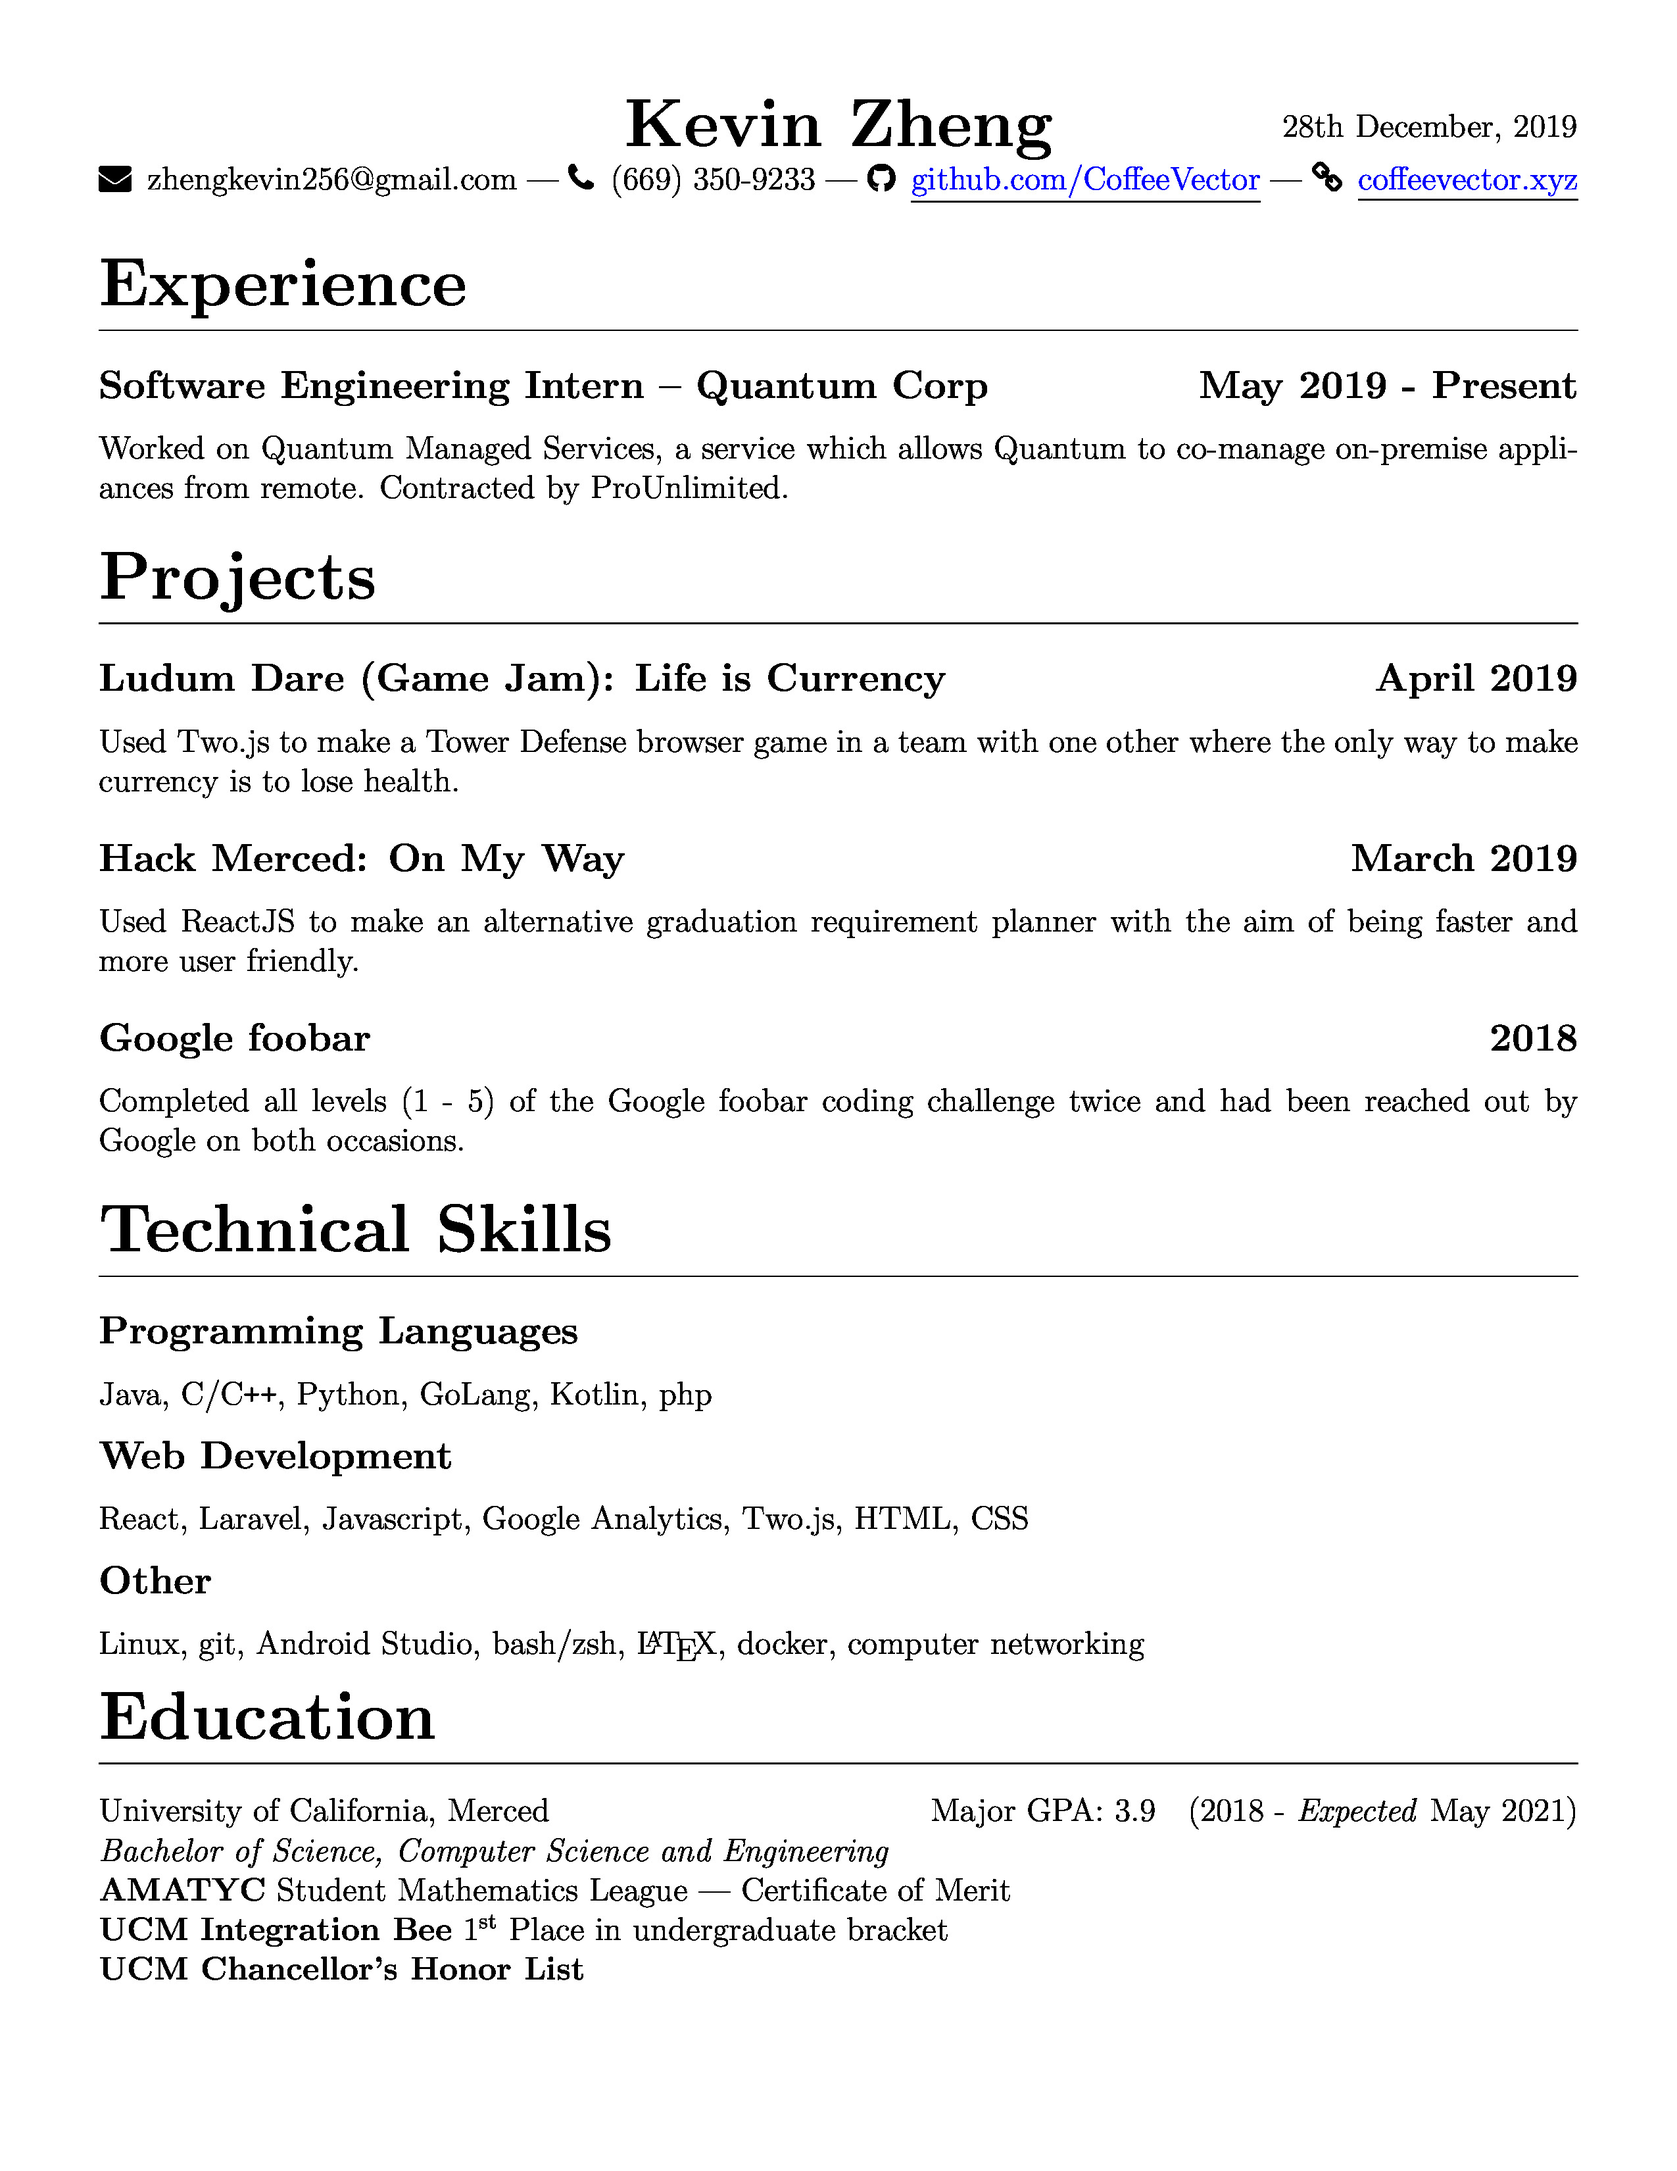
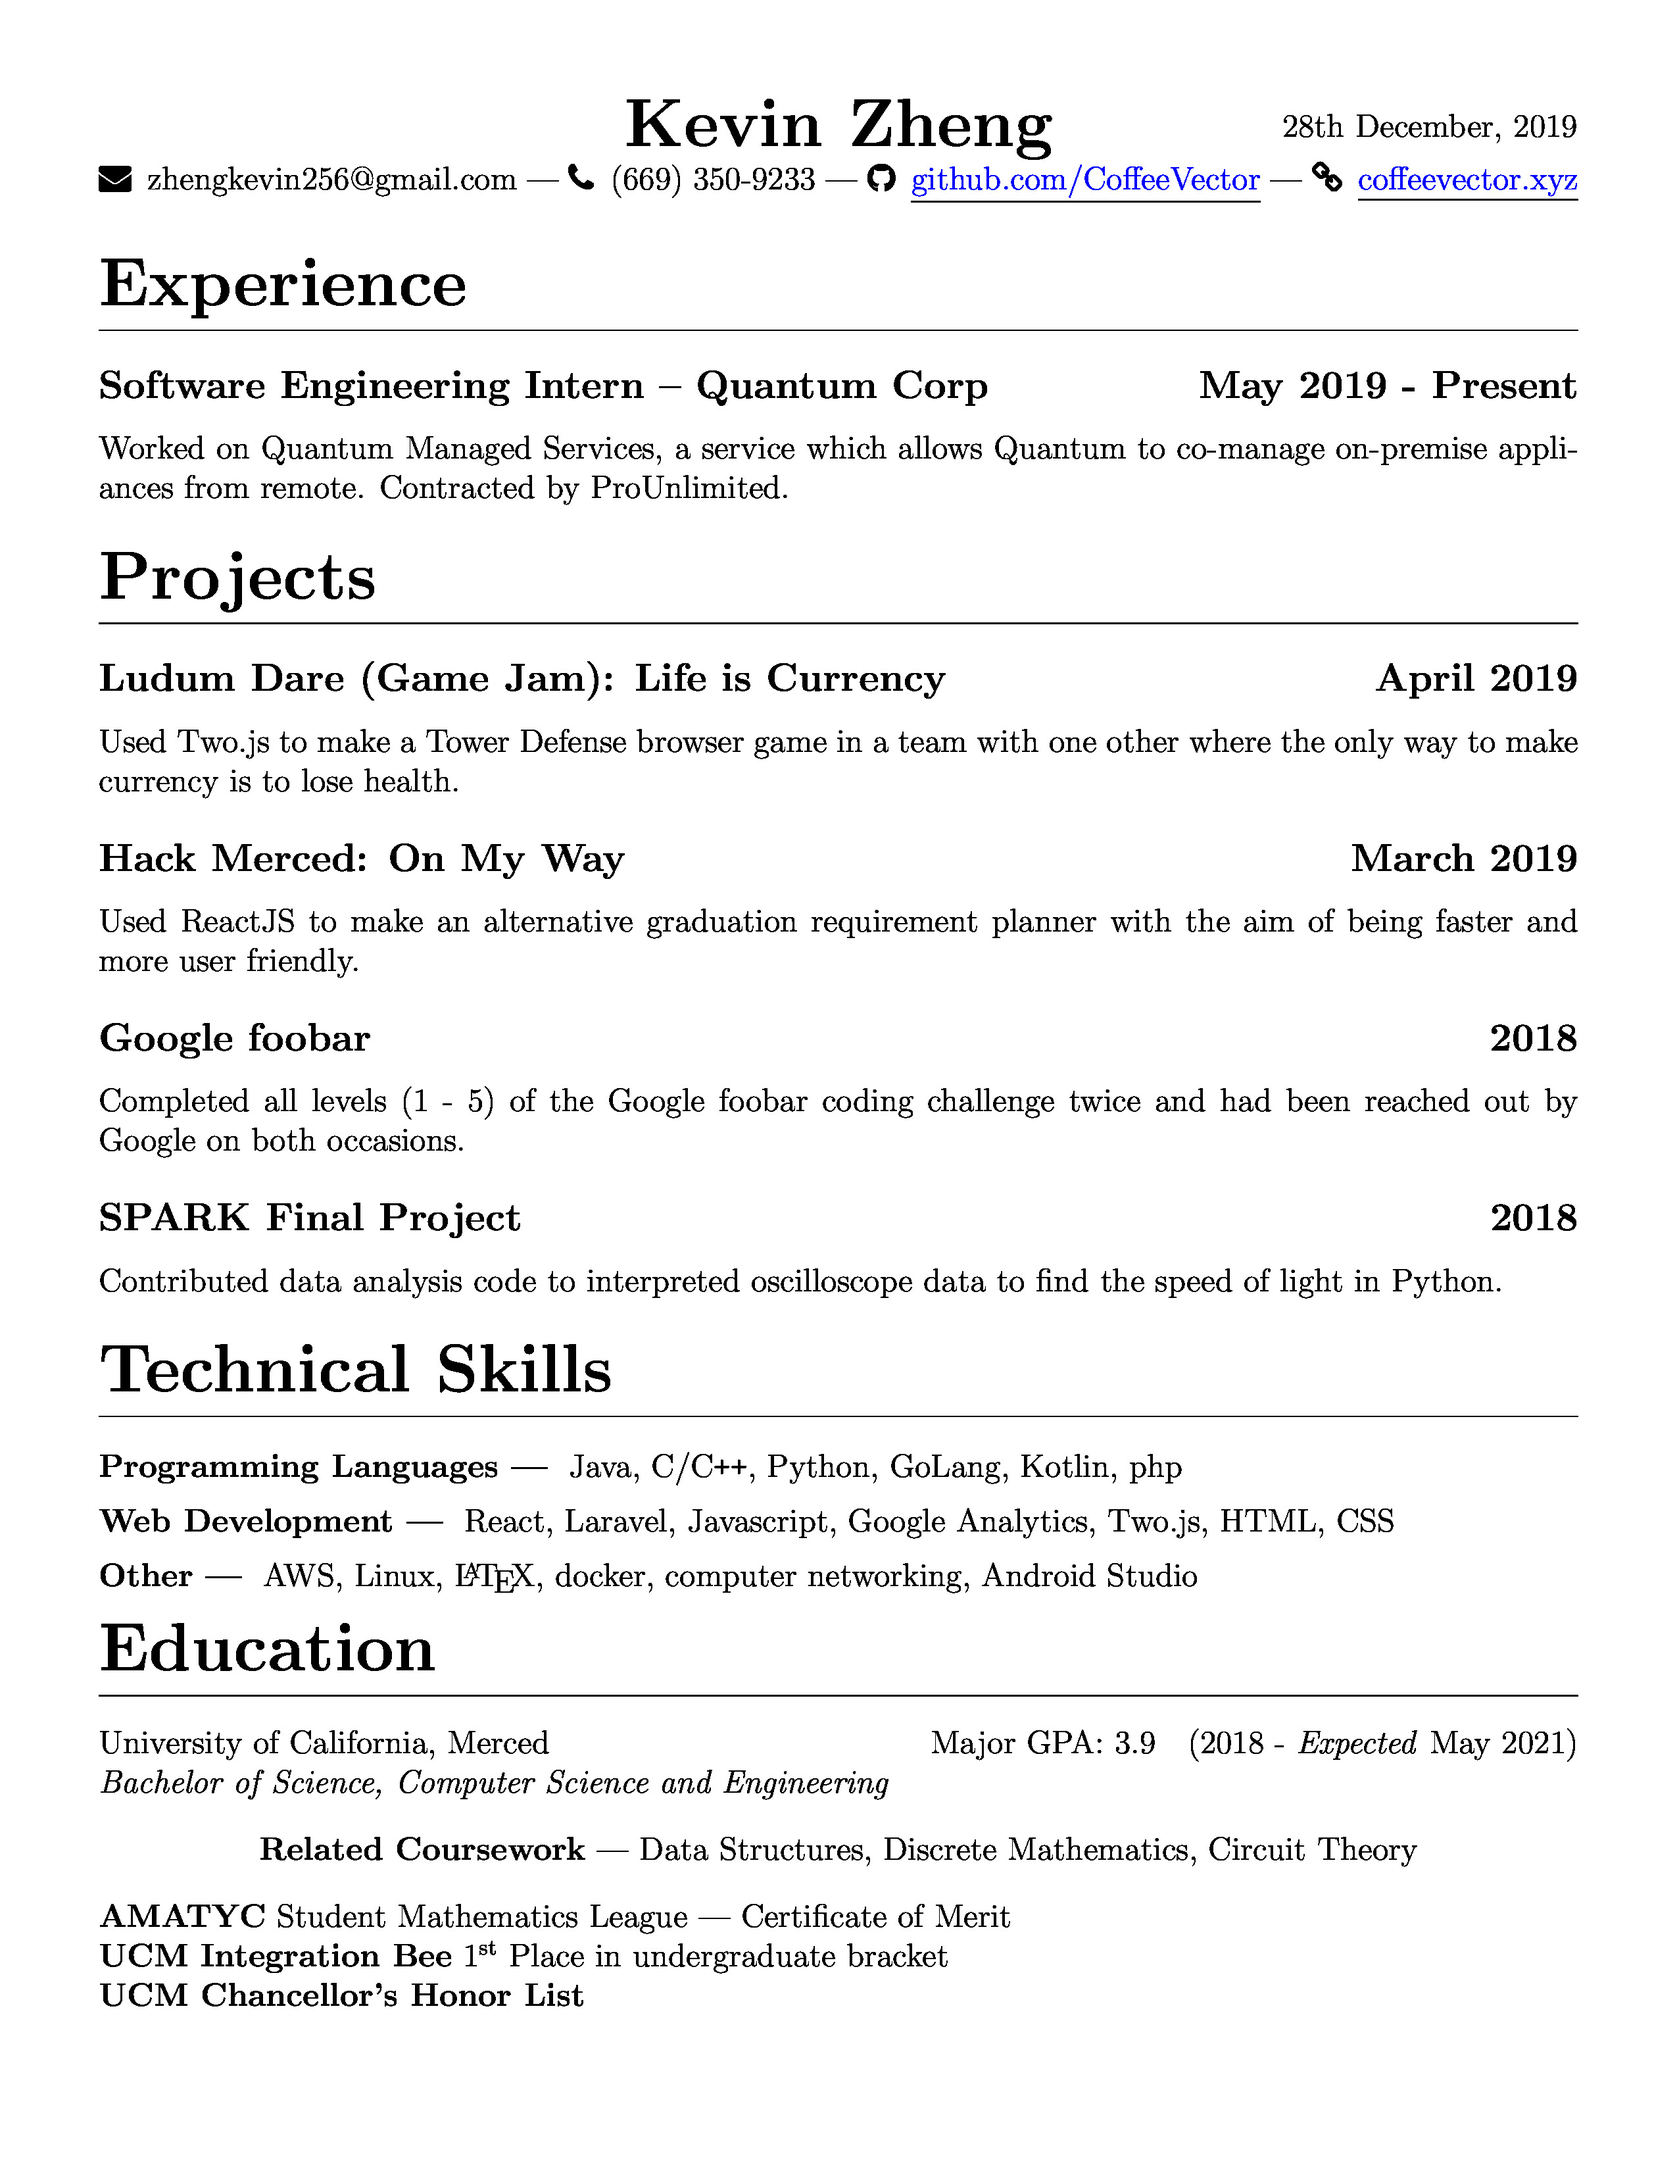
Updates for Fall 2020
Removes hidden link

Removes __pycache__

Changed shebang to venv and adds requirements.txt

Fixes google analytics in index.html

Adds variable for short or long technical skills

Changes whether or not the "skillset" is a subsection or a subsubsection

Adds spark final project and made subsubsections bold

Adds AWS to technical skills

Removes git because I feel like that's assumed

diff --git a/index.html b/index.html
@@ -1,5 +1,5 @@
 <!DOCTYPE html>
-<html style="width:100%; height:100%;>
+<html style="width:100%; height:100%;">
 	<head>
 		<!-- Global site tag (gtag.js) - Google Analytics -->
 		<script async src="https://www.googletagmanager.com/gtag/js?id=UA-131270924-2"></script>
@@ -8,7 +8,7 @@
 			function gtag(){dataLayer.push(arguments);}
 			gtag('js', new Date());
 			gtag('config', 'UA-131270924-1');
-			ga('send', 'pageview', location.pathname);
+			gtag('send', 'pageview', location.pathname);
 		</script>
 	</head>
 	<body style="height: 100%; width: 100%; overflow: hidden; margin: 0px;">

diff --git a/Resume.tex b/Resume.tex
@@ -11,10 +11,9 @@
 \usepackage{fontawesome}
 \usepackage{hyperref}
 
-\hypersetup{hidelinks}
 \titleformat{\section}{\vspace{-2mm}\huge\bfseries}{}{0em}{}[\titlerule]
 \titleformat{\subsection}{\large\bfseries}{}{0em}{}
-\titleformat{\subsubsection}[runin]{}{}{0em}{}[ --- ]
+\titleformat{\subsubsection}[runin]{\bfseries}{}{0em}{}[ --- ]
 \newcommand\textbox[1]{%
     \parbox{.333\textwidth}{#1}%
 }
@@ -41,22 +40,26 @@ Contracted by ProUnlimited.
     \subsection{Google foobar\null\hfill 2018}
     Completed all levels (1 - 5) of the Google foobar coding challenge twice and had been reached out by Google on both occasions.
     \vspace*{-2mm}
+    \subsection{SPARK Final Project\null\hfill 2018}
+    Contributed data analysis code to interpreted oscilloscope data to find the speed of light in Python.
+    \vspace*{-2mm}
 \section{Technical Skills}
-    \subsection{Programming Languages}
+    \subsubsection{Programming Languages}
     Java, C/C\verb!++!, Python, GoLang, Kotlin, php
     \vspace*{-4mm}
-    \subsection{Web Development}
+    \subsubsection{Web Development}
     React, Laravel, Javascript, Google Analytics, Two.js, HTML, CSS
     \vspace*{-4mm}
-    \subsection{Other}
-    Linux, git, Android Studio, bash/zsh, \LaTeX, docker, computer networking
+    \subsubsection{Other}
+    AWS, Linux, \LaTeX, docker, computer networking, Android Studio
     \vspace*{-4mm}
 \section{Education}
-University of California, Merced\null\hfill Major GPA: 3.9\quad (2018 - \emph{Expected} May 2021)\\
-           \emph{Bachelor of Science, Computer Science and Engineering}
-    \\\textbf{AMATYC} Student Mathematics League --- Certificate of Merit\\
+    University of California, Merced\null\hfill Major GPA: 3.9\quad (2018 - \emph{Expected} May 2021)\\
+    \emph{Bachelor of Science, Computer Science and Engineering}
+    \begin{center}
+        \textbf{Related Coursework} --- Data Structures, Discrete Mathematics, Circuit Theory
+    \end{center}
+    \textbf{AMATYC} Student Mathematics League --- Certificate of Merit\\
     \textbf{UCM Integration Bee} 1\textsuperscript{st} Place in undergraduate bracket\\
     \textbf{UCM Chancellor's Honor List}
-    \vspace*{-2mm}
-%\subfile{awards.tex}
 \end{document}

diff --git a/resume.py b/resume.py
@@ -1,4 +1,4 @@
-#!/usr/bin/python3
+#!venv/bin/python3
 import jinja2
 from jinja2 import Template
 from jinja2 import PackageLoader
@@ -44,6 +44,11 @@ projects = [
         "title": "Google foobar",
         "date": "2018",
         "description": """Completed all levels (1 - 5) of the Google foobar coding challenge twice and had been reached out by Google on both occasions."""
+    },
+    {
+        "title": "SPARK Final Project",
+        "date": "2018",
+        "description": """Contributed data analysis code to interpreted oscilloscope data to find the speed of light in Python."""
     }
 ]
 
@@ -58,12 +63,18 @@ skillsets = [
     },
     {
         "name": "Other",
-        "skills": ["Linux", "git", "Android Studio", "bash/zsh", "\LaTeX", "docker", "computer networking"]
+        "skills": ["AWS", "Linux", "\LaTeX", "docker", "computer networking", "Android Studio"]
     }
 ]
 
 for skillset in skillsets:
     skillset["skills"] = ", ".join(skillset["skills"])
+
+math_coursework = ["Probability and Statistics", "Linear Algebra & Differential Equations", "Multivariable Calculus"]
+cs_coursework = ["Data Structures", "Discrete Mathematics", "Circuit Theory"]
+phys_coursework = ["Special Relativity", "Thermal Physics"]
+
+coursework = ", ".join(cs_coursework)
 
 major_gpa = {
     "name": "Major GPA",
@@ -75,10 +86,14 @@ gpa = {
     "value": 3.8
 }
 
+short_skills = True
+
 with open('Resume.tex', 'w+') as f:
     f.write(resume_template.render(
         experiences=experiences,
         projects=projects,
         skillsets=skillsets,
-        gpa=major_gpa
+        gpa=major_gpa,
+        short_skills=short_skills,
+        coursework=coursework
     ))

diff --git a/templates/Resume.tex b/templates/Resume.tex
@@ -11,10 +11,9 @@
 \usepackage{fontawesome}
 \usepackage{hyperref}
 
-\hypersetup{hidelinks}
 \titleformat{\section}{\vspace{-2mm}\huge\bfseries}{}{0em}{}[\titlerule]
 \titleformat{\subsection}{\large\bfseries}{}{0em}{}
-\titleformat{\subsubsection}[runin]{}{}{0em}{}[ --- ]
+\titleformat{\subsubsection}[runin]{\bfseries}{}{0em}{}[ --- ]
 \newcommand\textbox[1]{%
     \parbox{.333\textwidth}{#1}%
 }
@@ -40,16 +39,19 @@
 %% endfor
 \section{Technical Skills}
 %% for skillset in skillsets:
-    \subsection{\VAR{skillset.name}}
+    \\VAR{'subsubsection' if short_skills else 'subsection' }{\VAR{skillset.name}}
     \VAR{skillset.skills}
     \vspace*{-4mm}
 %% endfor
 \section{Education}
-University of California, Merced\null\hfill \VAR{'{name}: {gpa}\quad'.format(name=gpa.name, gpa=gpa.value) if gpa else ''} (2018 - \emph{Expected} May 2021)\\
-           \emph{Bachelor of Science, Computer Science and Engineering}
-    \\\textbf{AMATYC} Student Mathematics League --- Certificate of Merit\\
+    University of California, Merced\null\hfill \VAR{'{name}: {gpa}\quad'.format(name=gpa.name, gpa=gpa.value) if gpa else ''} (2018 - \emph{Expected} May 2021)\\
+    \emph{Bachelor of Science, Computer Science and Engineering}
+    %% if coursework
+    \begin{center}
+        \textbf{Related Coursework} --- \VAR{coursework}
+    \end{center}
+    %% endif
+    \textbf{AMATYC} Student Mathematics League --- Certificate of Merit\\
     \textbf{UCM Integration Bee} 1\textsuperscript{st} Place in undergraduate bracket\\
     \textbf{UCM Chancellor's Honor List}
-    \vspace*{-2mm}
-%\subfile{awards.tex}
 \end{document}
